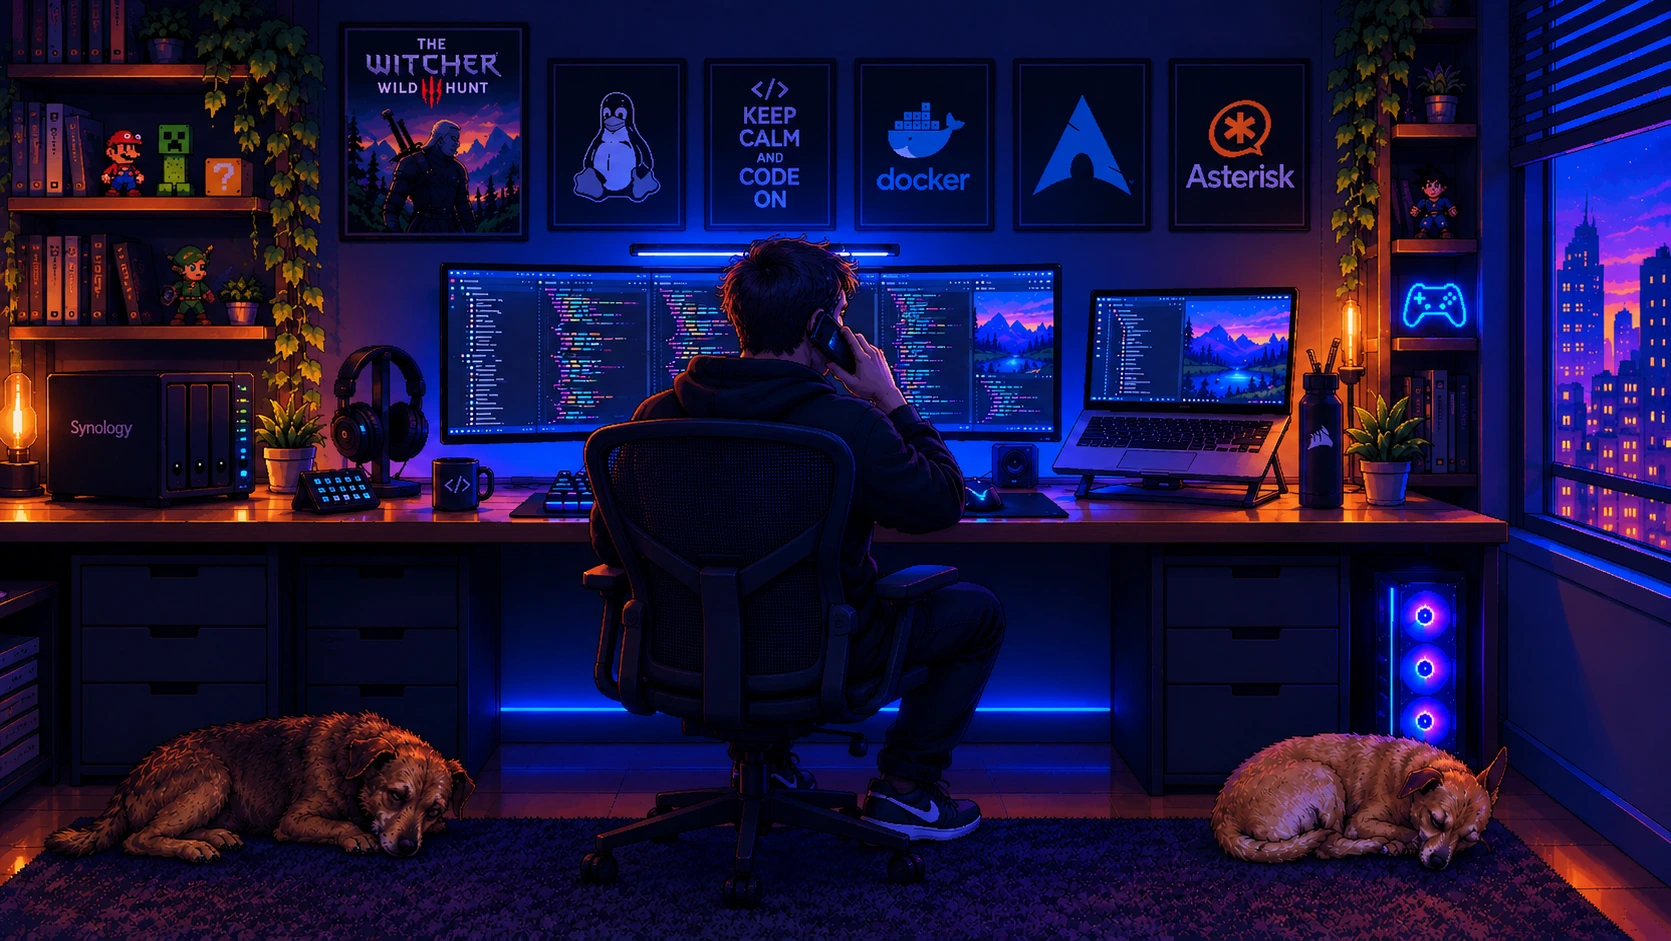
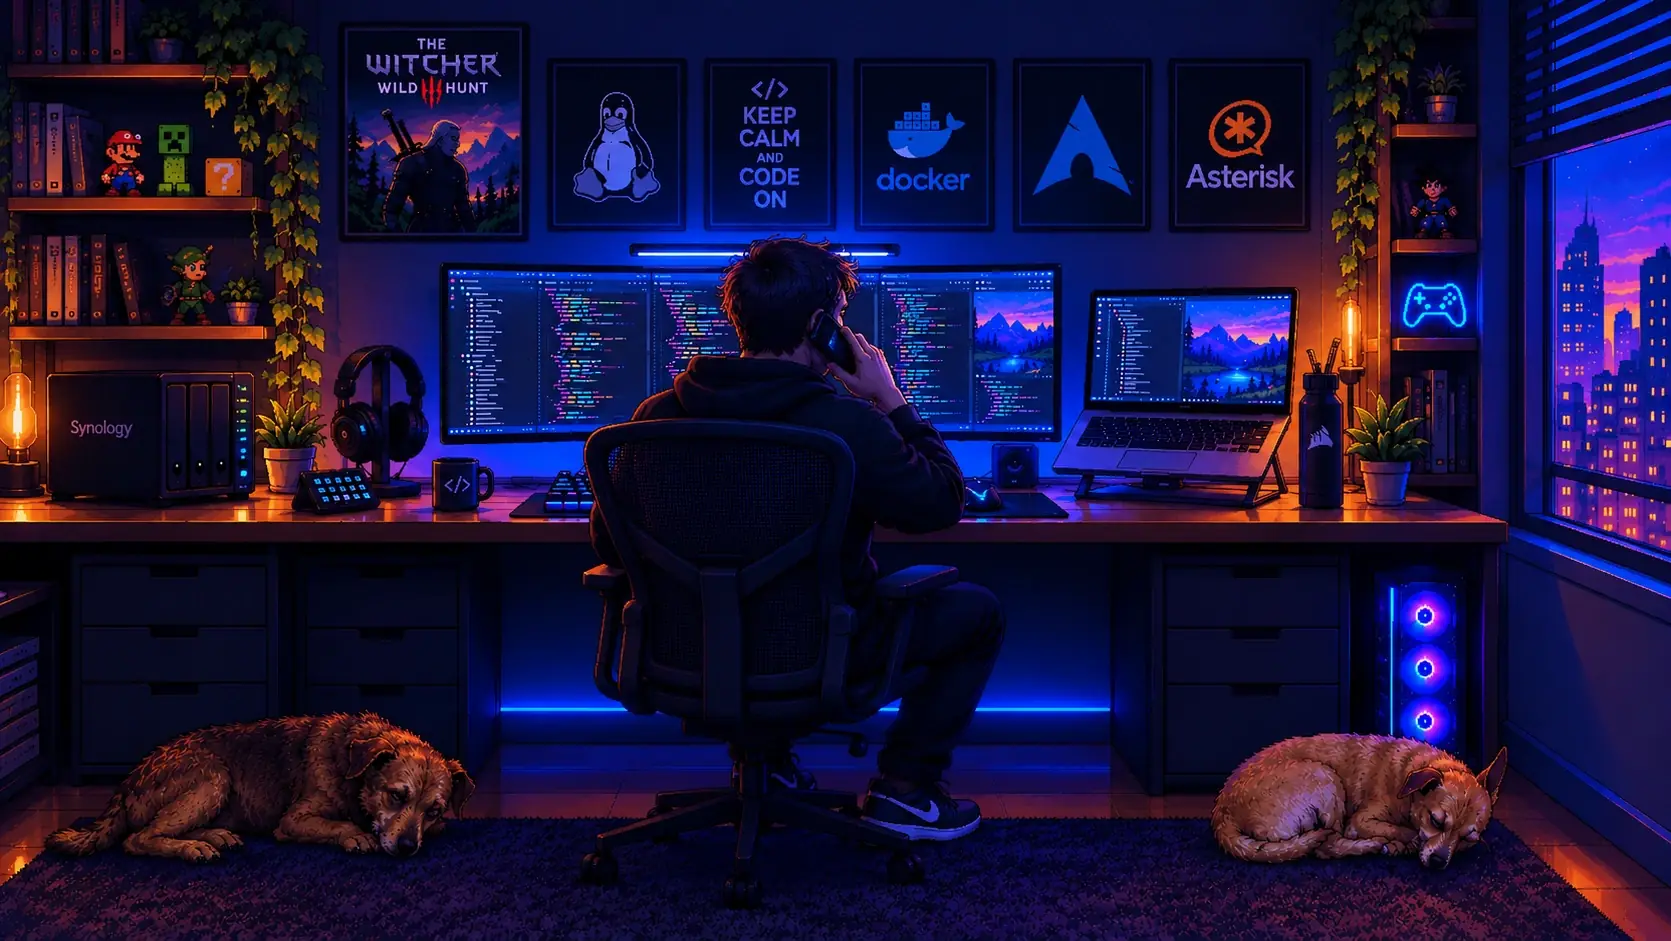
Otimizando imagens e removendo assets nao utilizados

diff --git a/src/data/projects.ts b/src/data/projects.ts
@@ -143,7 +143,7 @@ export const projects: Project[] = [
         { label: { pt: "Download", en: "Download" }, href: "https://github.com/Marcospena12/steam-screenshot-importer/releases/latest" },
       ],
       screenshots: [{
-      src: "/projects/steamshotbridge/tela-jogos.png",
+      src: "/projects/steamshotbridge/tela-jogos.webp",
       alt: {
         pt: "Visão da tela principal",
         en: "Overview of the home screen",
@@ -474,8 +474,8 @@ export const projects: Project[] = [
       visual: {
         kind: "glow-logos",
         logos: [
-          { src: "/logos/asterisk-logo.png", alt: { pt: "Logo do Asterisk", en: "Asterisk logo" } },
-          { src: "/logos/freepbx-logo.png", alt: { pt: "Logo do FreePBX", en: "FreePBX logo" } },
+          { src: "/logos/asterisk-logo.webp", alt: { pt: "Logo do Asterisk", en: "Asterisk logo" } },
+          { src: "/logos/freepbx-logo.webp", alt: { pt: "Logo do FreePBX", en: "FreePBX logo" } },
         ],
       },
     },
@@ -908,14 +908,14 @@ export const projects: Project[] = [
         { label: { pt: "Dados via GamerPower", en: "Data via GamerPower" }, href: "https://www.gamerpower.com" },
       ],
       screenshots: [{
-      src: "/projects/free-games-hub/tela-principal.png",
+      src: "/projects/free-games-hub/tela-principal.webp",
       alt: {
         pt: "Visão da tela principal",
         en: "Overview of the home screen",
       },
     },
     {
-      src: "/projects/free-games-hub/tela-historicos.png",
+      src: "/projects/free-games-hub/tela-historicos.webp",
       alt: {
         pt: "Visão da tela de históricos de jogos grátis",
         en: "Free Games History Screen View",

diff --git a/src/components/ChatWidget/config.ts b/src/components/ChatWidget/config.ts
@@ -4,14 +4,14 @@
  * ─────────────────────────────────────────────────────────────────────────────
  * IMAGEM DO AVATAR (header do chat)
  *
- * 1. Coloque sua imagem em:  public/chat/avatar.png
+ * 1. Coloque sua imagem em:  public/chat/avatar.webp
  *    (pasta criada para isso — aceita png/jpg/webp também)
  * 2. Se precisar trocar o nome/arquivo, altere o caminho abaixo.
  * 3. Enquanto a imagem não existir, um avatar com as iniciais é exibido
  *    no lugar (sem ícone quebrado).
  * ─────────────────────────────────────────────────────────────────────────────
  */
-export const CHAT_AVATAR_SRC = "/chat/avatar.png";
+export const CHAT_AVATAR_SRC = "/chat/avatar.webp";
 
 /** Texto alternativo da imagem (aparece se a imagem não carregar). */
 export const CHAT_AVATAR_ALT = "Marcos";

diff --git a/src/components/ChatWidget/ChatAvatar.tsx b/src/components/ChatWidget/ChatAvatar.tsx
@@ -11,7 +11,7 @@ type ChatAvatarProps = {
 
 /**
  * Avatar do chat (header e indicador "pensando...").
- * Usa a imagem de `public/chat/avatar.png` (definida em ./config.ts);
+ * Usa a imagem de `public/chat/avatar.webp` (definida em ./config.ts);
  * se ela ainda não existir, mostra as iniciais como fallback.
  */
 export function ChatAvatar({ size = 40 }: ChatAvatarProps) {

diff --git a/public/chat/README.md b/public/chat/README.md
@@ -2,7 +2,7 @@
 
 Coloque aqui a imagem que aparece no header do ChatWidget, com o nome:
 
-    avatar.png
+    avatar.webp
 
 O caminho é referenciado em:
 `src/components/ChatWidget/config.ts` → `CHAT_AVATAR_SRC`
